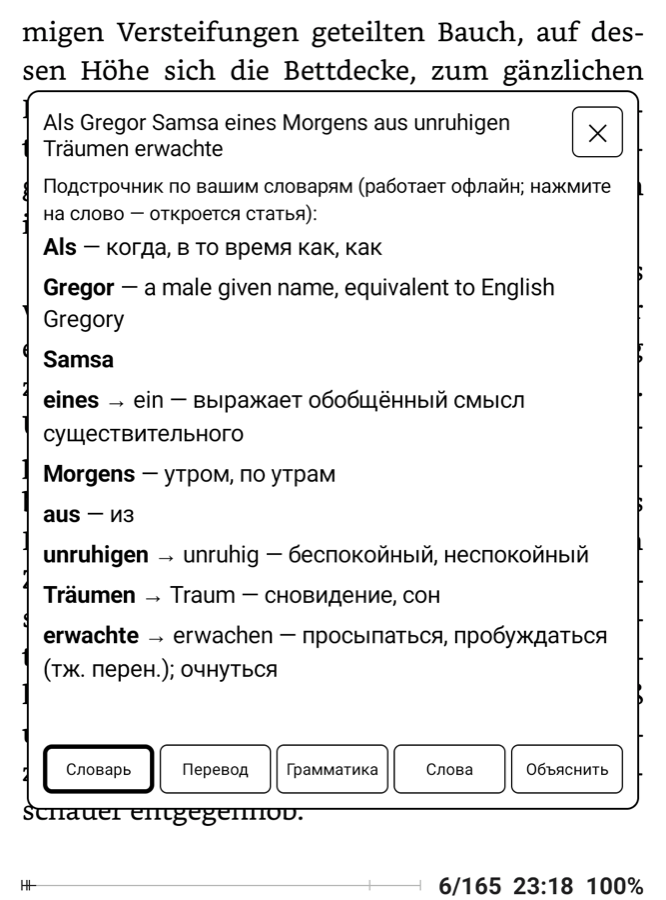
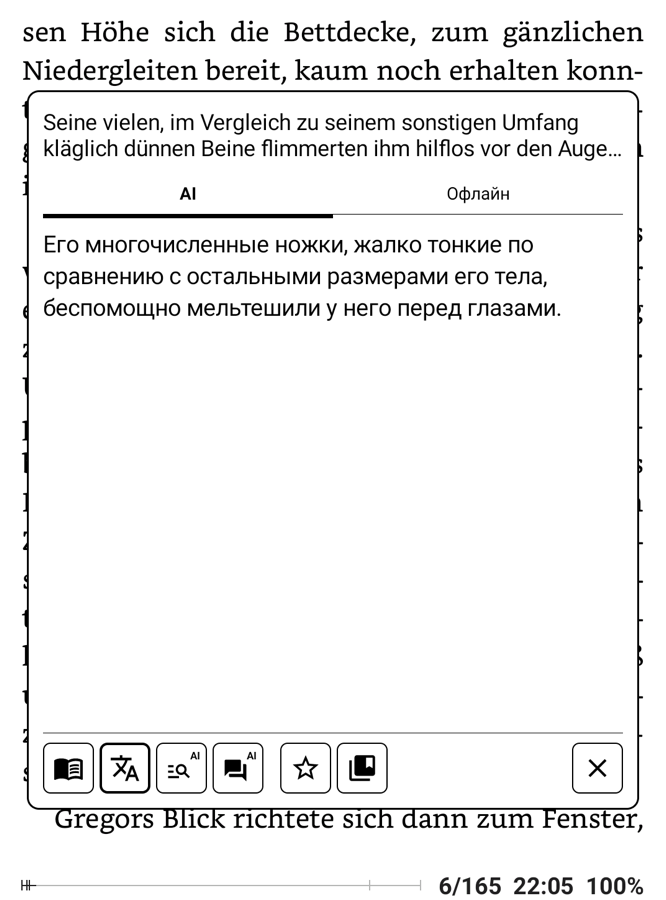
README: how the packs are made (our dictionaries from Wiktionary, the grammar — der/die/das, forms, strong verbs —, Mozilla's models on Bergamot, fastText, tests), the 20 pairs and 8 app languages, new screenshots over Kafka

diff --git a/README.md b/README.md
@@ -21,33 +21,33 @@ Made for Android e-ink readers (Onyx Boox and others); works on any Android devi
 <tr>
 <td valign="top"><b>Look up a word.</b> Entries from the language packs, offline. Inflected forms find their base
 form: <i>Träumen</i> → <i>Traum</i>.</td>
-<td valign="top"><b>Translate a sentence or a paragraph.</b> A natural translation, not word by word, in the language
-you choose.</td>
-<td valign="top"><b>Understand why it is said this way.</b> Word order, forms and the rule behind them, with the words
-from the text in bold.</td>
+<td valign="top"><b>Translate a sentence or a paragraph.</b> On the device, without the internet; or by AI when
+you set it up.</td>
+<td valign="top"><b>Understand why it is said this way.</b> Analysis (AI): how it is built and the rule behind it,
+then the harder words, in sections.</td>
 </tr>
 <tr>
-<td width="33%"><img src="docs/img/card-translate-word.png" alt="A word translated in context"></td>
+<td width="33%"><img src="docs/img/card-context.png" alt="Examples of a word in context"></td>
 <td width="33%"><img src="docs/img/card-gloss.png" alt="Word-by-word gloss of a sentence, offline"></td>
-<td width="33%"><img src="docs/img/settings-card.png" alt="Choose the AI tabs"></td>
+<td width="33%"><img src="docs/img/settings-languages.png" alt="Language packs to download"></td>
 </tr>
 <tr>
-<td valign="top"><b>Get the meaning that fits here.</b> The header shows the base form with its article and plural,
-or a verb's forms; Translate gives the main meanings, Analysis the grammar and related words, Context examples.</td>
-<td valign="top"><b>No internet? Still useful.</b> A selected sentence gets a word-by-word gloss from your
-dictionaries. Tap a word to open its full entry.</td>
-<td valign="top"><b>Keep what you look up.</b> AI answers are saved and shown again, also offline; ☆ keeps a word or
-phrase in My words. Use Claude, OpenAI, OpenRouter (it has free models) or your own server.</td>
+<td valign="top"><b>See it in use.</b> Context (AI): three everyday sentences with a translation, then register and
+nuances.</td>
+<td valign="top"><b>Word by word, offline.</b> A selected sentence gets a gloss from the language packs: each word with
+its base form and meaning. Tap a word to open its entry.</td>
+<td valign="top"><b>Choose your languages.</b> Tick the pairs you read; each pack brings a dictionary and offline
+translation. ☆ keeps a word or phrase in My words; the history keeps the rest.</td>
 </tr>
 </table>
 
-<p align="center"><sub>Onyx Boox Go 6, FBReader, Franz Kafka «Die Verwandlung» (public domain). Answers here are in
-English or Russian: answers come in the app's language.</sub></p>
+<p align="center"><sub>Onyx Boox Go 6, FBReader, Franz Kafka «Die Verwandlung» (public domain). The app here is in
+Russian, so are the answers: they come in the app's language.</sub></p>
 
 ## Quick start
 1. **Install** the APK from [Releases](https://github.com/kafeg/inkpeek/releases) and open InkPeek. Allow access to
    files when it asks.
-2. **Choose your languages:** Languages → the language of the answers, tick the languages of your books → Download.
+2. **Choose your languages:** Languages → tick the pairs of your books → Download. Answers come in the app's language.
 3. **Optional — AI:** choose a provider on the **AI** tab and paste your API key.
 4. **Connect your reader** (below). In FBReader this is two settings.
 
@@ -97,37 +97,69 @@ If another dictionary app answers the same request, Android asks which one to us
 ## How it works
 
 ### The card
-- **Dictionary** comes first. For a word: entries from your dictionaries, one dictionary per screen, ◀ ▶ to page
-  between them; dictionaries into the app's language come first. For a sentence: the word-by-word gloss.
-- **AI tabs:** Analysis (how to use it, related or harder words) and Context (examples with a translation, register),
-  each in sections. A tab asks the AI only when you open it; the answer is kept with the history entry and goes when
-  you remove that entry.
+- **Dictionary** comes first. For a word: the header from the packs — "das Haus (Hauses, мн. Häuser)", "go (went, gone)
+  неправ." — then one line per dictionary, those into the app's language first; tap a line for the full entry. For a
+  sentence: the word-by-word gloss.
+- **Translate**: by AI when it can answer (set up and online), offline on the device otherwise — both are tabs, the
+  available one first. Which language it was and how sits in small print at the card's bottom.
+- **AI tabs** (marked "AI", dimmed when AI cannot answer): Analysis and Context, each in sections. A tab asks only when
+  you open it; the answer is kept with the history entry and goes when you remove that entry.
 - What you selected decides what the tabs do: one word, a short phrase (up to 8 words), or a passage (longer, or more
-  than one sentence; Examples is hidden for a passage).
-- A selected sentence opens on Translate when AI is on (you can turn this off).
+  than one sentence).
+- **My words**: ☆ saves a word or phrase; the app keeps the history too, each entry with one short line.
 - Built for e-ink: black on white, large text, no animations, few settings.
-- The app is in English, Русский and Deutsch — exactly the answer languages of InkPeek's language packs; a new
-  language comes with its packs. Answers come in the app's language.
+- The app is in English, Русский, Deutsch, Français, Español, Italiano, Português and Polski — exactly the answer
+  languages of InkPeek's language packs; a new language comes with its packs. Answers come in the app's language.
 
 ### Languages
-Settings → **Languages**: every language pair InkPeek has; tick the ones you read (or all of them). For each pair
-InkPeek downloads its pack from this project's [`packs` release](https://github.com/kafeg/inkpeek/releases/tag/packs)
-— nothing comes from other servers:
+Settings → **Languages**: every language pair InkPeek has; tick the ones you read (or all of them). The card uses only
+the ticked pairs; "Remove unticked" frees the space of the others. For each pair InkPeek downloads its pack from this project's [`packs` release](https://github.com/kafeg/inkpeek/releases/tag/packs)
+— nothing comes from other servers.
 
-| part | what it gives | from |
-|---|---|---|
-| dictionary of the pair | a short first line — "das Haus (Hauses, мн. Häuser) — дом, здание", "go (went, gone) неправ. — идти" — and the full article; every inflected form finds its word (Häusern, ging, went); gender, plural and verb forms come from Wiktionary's grammar data | Wiktionary via [kaikki.org](https://kaikki.org), [WikDict](https://www.wikdict.com) |
-| offline translation | Translate without the internet | [Firefox Translations](https://github.com/mozilla/translations) models |
-| language identification | which language you selected, also one without a pack | [fastText](https://fasttext.cc) lid.176 |
+Packs now — books in a language, answers in the app's language:
 
-Packs now: German → Russian, English → Russian, German → English, English → German, Russian → German.
-They are built by [`packs/`](packs/README.md) and checked by tests before they are published. A German pack with
-Russian answers is about 62 MB, English with Russian about 40 MB (the English → Russian model is shared). The card
-uses only the packs: a new language comes as a pack.
+| answers | books |
+|---|---|
+| English | German, Spanish, French, Italian, Polish, Portuguese, Dutch, Russian |
+| Русский | English, German, Spanish, French, Polish |
+| Deutsch | English, Russian |
+| Français, Español, Italiano, Português, Polski | English |
+
+A pair is published when its dictionary knows at least 85% of the 5,000 most frequent words of the book language
+(subtitle frequency lists, forms included) and its golden words pass. A pack is about 25–60 MB; translation models are
+shared between pairs (German → Russian goes German → English → Russian).
+
+### How the packs are made
+InkPeek does not ship third-party dictionaries as they are: the scripts in [`packs/`](packs/README.md) build every pack
+from open data, test it and publish it.
+
+- **The dictionary of a pair** (x → y) is our own: the y-language Wiktionary's articles about x-words (German words in
+  the Russian Wiktionary for German → Russian), read from [kaikki.org](https://kaikki.org)'s Wiktextract data; for
+  English words also the translation tables of the English Wiktionary; [WikDict](https://www.wikdict.com) only where
+  Wiktionary has no article. Every article starts with one line — the word with its grammar, then its main meanings:
+  "das Haus (Hauses, мн. Häuser) — дом, здание", "gehen (geht, ging, ist gegangen) сильн. — идти". The card's header,
+  the dictionary list and the word-by-word gloss all show this line.
+- **The grammar** comes from Wiktionary's inflection tables (the German Wiktionary for German, the English one for the
+  other languages):
+  - a noun's gender as its article — **der / die / das** in German (le / la, el / la, il / la, o / a, de / het in
+    other languages), its genitive and plural;
+  - a verb's principal parts — German: 3rd person, Präteritum and Perfekt with *haben* or *sein*; English: past and
+    participle — and whether it is strong or irregular;
+  - every inflected form leads to its word: *Häusern* → Haus, *ging* → gehen, *went* → go, *домами* → дом. Related
+    words (an aspect partner, a derived adjective) have their own entries and are not taken for forms.
+  - Only what Wiktionary says, no guessing from endings. A word with more than one gender in
+    Wiktionary shows them all (*der / das Zentimeter*).
+- **Offline translation:** [Firefox Translations](https://github.com/mozilla/translations) models by Mozilla, the best
+  one for each direction, mirrored in our release and run on the device by the
+  [Bergamot](https://github.com/browsermt/bergamot-translator) engine (C++, built into the app).
+- **Language identification:** [fastText](https://fasttext.cc) lid.176; when it is unsure (a word or two), the pack
+  dictionary that knows more of the words decides.
+- **Tests:** golden words for every language and pair (forms, headers, meanings) must pass before a pack is
+  published; `scripts/device-test.sh` checks the app itself on a device — headers, meanings, language identification
+  and offline translation of real words and sentences.
 
 ### Offline translation
-The Translate tab works without the internet: the [Bergamot](https://github.com/browsermt/bergamot-translator) engine
-runs the models of the language packs on the device. The language of the selection is found by fastText (when it is
+The Translate tab works without the internet: the Bergamot engine runs the models of the language packs on the device. The language of the selection is found by fastText (when it is
 unsure — a word or two — by the pack dictionary that knows more of the words); a text in a language without a pack
 is named as such ("This looks like French"). AI translation needs none of this.
 
@@ -135,8 +167,8 @@ is named as such ("This looks like French"). AI translation needs none of this.
 English → Russian. The meaning comes through; nuances can get lost: *du* and *Sie* both become *you*, so the Russian
 may pick the wrong one of ты / вы; the speaker's gender may change.
 
-On a Boox Go 6 (Snapdragon 662, 2 GB) a sentence takes 0.2–0.9 s with both models in memory (about 560 MB), or 1–2 s
-when free memory is short and InkPeek loads one model at a time. Translate is offline first; with AI set up, a setting makes it ask AI first.
+On a Boox Go 6 (Snapdragon 662, 2 GB) a sentence takes 0.1–0.9 s with the pair's models in memory (about 560 MB), or
+1–2 s when free memory is short and InkPeek loads one model at a time; the models leave memory after 3 idle minutes.
 
 ### AI
 Providers: **Claude** (Anthropic), **OpenAI**, **OpenRouter** (hundreds of models, some free), and **any
@@ -175,8 +207,8 @@ Put the key in settings, or in a file:
 adb push openrouter.txt /sdcard/InkPeek/keys/openrouter.key
 ```
 
-**Privacy:** only the selected text and the tab's request go to the provider you chose, only when you open an AI tab
-(or select a phrase with "phrases: AI at once" on). No telemetry, no accounts.
+**Privacy:** only the selected text and the tab's request go to the provider you chose: when you open an AI tab, or
+Translate while AI is on and online. With AI off nothing leaves the device. No telemetry, no accounts.
 
 ### Protocol
 | intent | text extra | notes |
@@ -194,7 +226,10 @@ a `.sha256` file.
 ```bash
 ./gradlew testDebugUnitTest assembleDebug
 adb install -r app/build/outputs/apk/debug/app-debug.apk
+scripts/device-test.sh        # the language packs on a connected device: headers, forms, language, offline translation
 ```
+
+The version is `0.3.<number of commits>`; the same number is the version code.
 
 Kotlin, Android Views, Android 11+ (minSdk 30), 64-bit ARM. The translation engine is C++ built with the NDK:
 `git clone --recurse-submodules` (or `git submodule update --init --recursive`). Design notes: [docs/spec.md](docs/spec.md).
